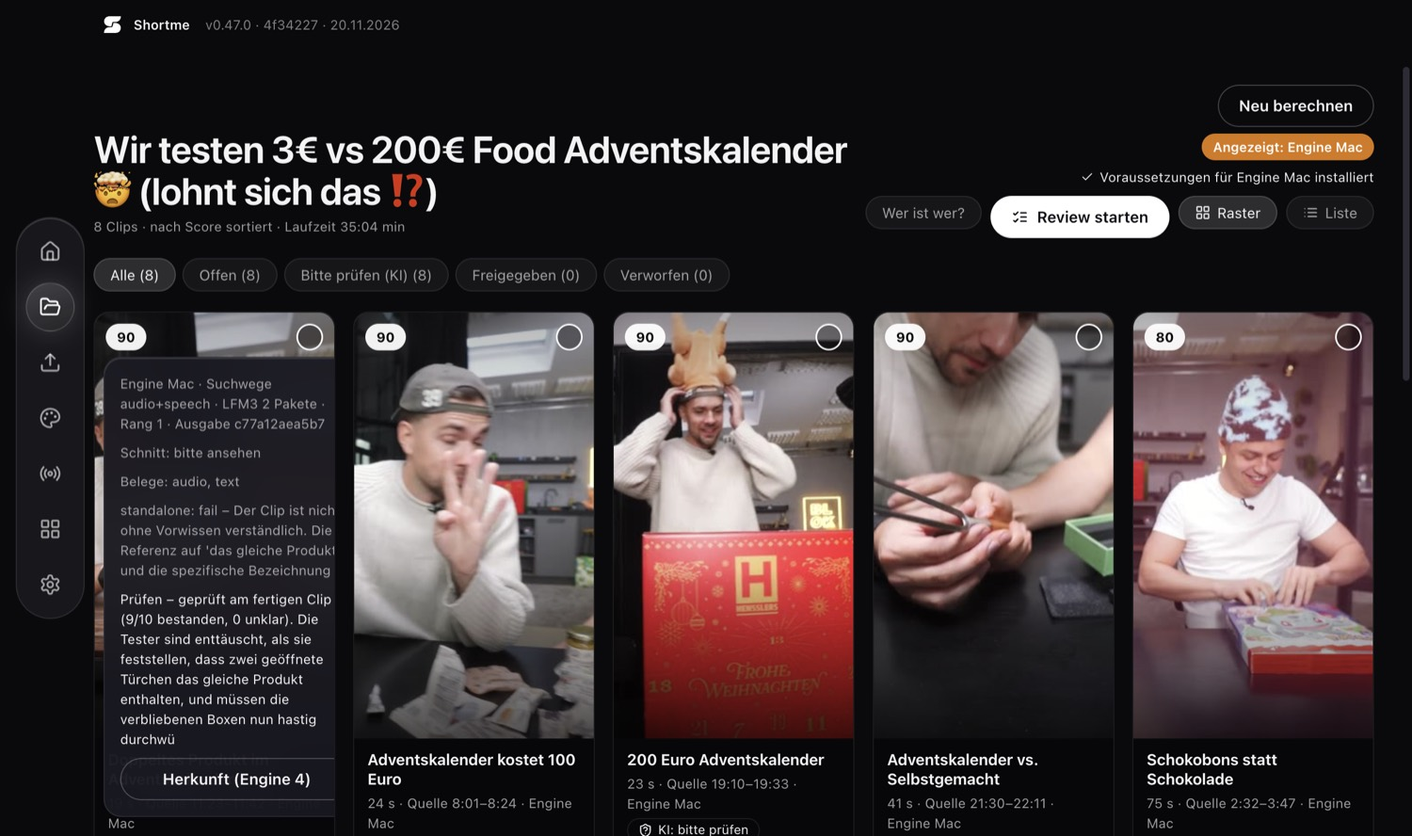
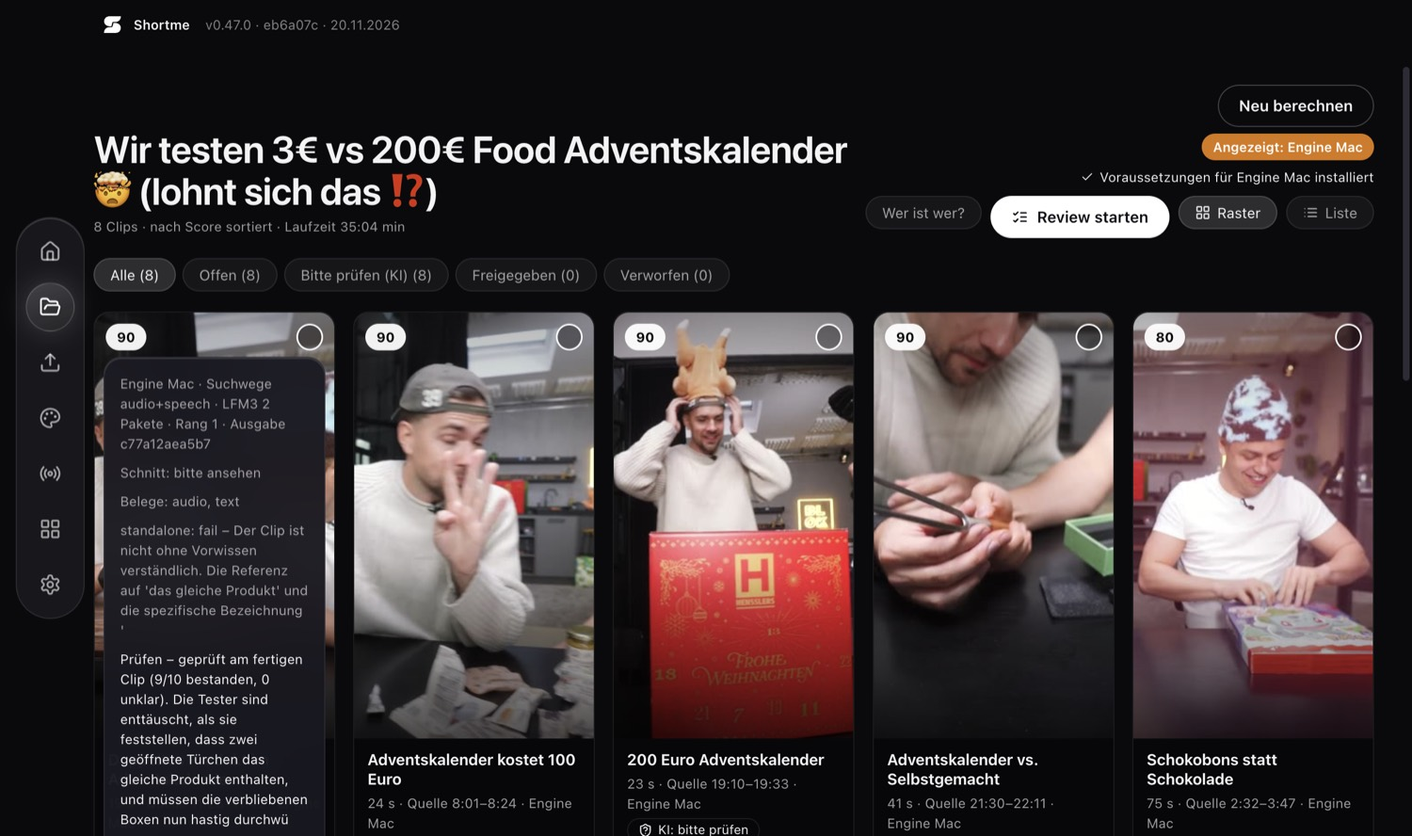
Version 0.48.0: Export mit Bestätigung, stimmige Restzeit, Status bei gestopptem Lauf, Score-Details, Zeitleiste; UI-Breakdown aktualisiert

diff --git a/docs/ui-research/shortme-ui-breakdown.html b/docs/ui-research/shortme-ui-breakdown.html
@@ -108,14 +108,14 @@ th { background: #f0f0f0; }
 <li><b>Wonach suchen?</b> Freitext, z. B. „lustige Momente“.</li>
 <li><b>Erweitert:</b> Sprache, Transkriptionsmodell, Sprecher unterscheiden.</li>
 </ul>
-<p>Unten stehen „Dauer etwa 25 Min“, „Abbrechen“ und „Clips finden“.</p>
+<p>Unten stehen „Dauer etwa 40 Min“ (aus gemessenen Werten dieses Rechners), „Abbrechen“ und „Clips finden“.</p>
 <figure><img src="img/Start-Erstellen-Dialog-unten.jpg"><figcaption>Erstellen-Dialog, unterer Teil (Untertitel-Stile, Cold Opener, Anzahl, Workflow).</figcaption></figure>
 
 <h2 class="pb">4. Verarbeitung</h2>
 <figure><img src="img/Verarbeitung.jpg"><figcaption>Verarbeitung: drei Phasen mit Status statt Prozentbalken, Detailzeile der Engine, „Transkript bereit“.</figcaption></figure>
 <ul>
 <li>Überschrift „Clips werden erstellt …“, eine Marke für die Engine, Videotitel und -länge.</li>
-<li>„Läuft seit X Min · Restzeit ca. A–B“: die Restzeit als Spanne.</li>
+<li>„Läuft seit X Min · Restzeit ca. 30–45 Min“: die Restzeit als Spanne. Während „Clips finden“ rechnet die Engine selbst aus der echten Restarbeit.</li>
 <li>Drei Phasen (Transkribieren, Analysieren, Clips finden), jeweils erledigt, läuft oder ausstehend. Bei Clips finden steht eine Detailzeile, z. B. „Sprachsuche (Qwen3.5), Fenster 2 von 11“ oder „Clip 3 von 8 rendern“.</li>
 <li>Zwischenstände als Chips: „Transkript bereit“ und vorläufige Clips, sobald sie vorliegen.</li>
 <li>Knöpfe: Pausieren, Beenden mit Ergebnissen, Verwerfen (mit Rückfrage), Fortsetzen.</li>
@@ -182,7 +182,7 @@ th { background: #f0f0f0; }
   <li>Freigabestatus („Offen“)</li>
   <li>Layout-Schnellwahl: Smart, Fest, Vollbild, Split</li>
   <li>Lernbewertung, „Gespeichert“, Rückgängig/Wiederholen (Strg+Z/Y)</li>
-  <li><b>Exportieren</b>: startet sofort und zeigt den Fortschritt im Knopf</li>
+  <li><b>Exportieren</b>: öffnet einen kurzen Dialog mit Prüfhinweisen und startet erst nach Bestätigung; der Fortschritt steht dann im Knopf</li>
   </ul>
 </li>
 <li><b>Links – Transkript:</b> Das aktuelle Wort ist hervorgehoben, außerhalb des Clips ist der Text grau. Es gibt „Text ändern“ (korrigiert den Untertitel) und „Herausschneiden“ (Wörter markieren, um Stellen aus dem Clip zu schneiden).</li>
@@ -214,11 +214,12 @@ th { background: #f0f0f0; }
   <li>Filmstreifen und Wellenform des Quellvideos; darauf der Clipbereich mit Griffen und Einstellungs-Segmenten (Layout je Kameraeinstellung)</li>
   </ul>
 </li>
-<li>Vor dem Export läuft eine Prüfung: fehlende Quelle, Einstellungen ohne Person (mit Sprung zur Stelle), Länge, fehlende Untertitel, verworfener Clip.</li>
+<li>Der Export-Dialog prüft: fehlende Quelle, Einstellungen ohne Person (mit Sprung zur Stelle), Länge, fehlende Untertitel, verworfener Clip, KI-Hinweise.</li>
 </ul>
 <figure><img src="img/Editor-Animation.jpg"><figcaption>Reiter Animation.</figcaption></figure>
 <figure><img src="img/Editor-Titel.jpg"><figcaption>Reiter Titel.</figcaption></figure>
-<figure><img src="img/Editor-Bildausschnitt.jpg"><figcaption>Reiter Bildausschnitt; oben läuft gerade ein Export (32 %).</figcaption></figure>
+<figure><img src="img/Editor-Bildausschnitt.jpg"><figcaption>Reiter Bildausschnitt.</figcaption></figure>
+<figure><img src="img/Editor-Export-Dialog.jpg"><figcaption>Export-Dialog mit Prüfhinweis.</figcaption></figure>
 
 <h2 class="pb">9. Exporte &amp; Upload</h2>
 <figure><img src="img/Exporte___Upload.jpg"><figcaption>Liste der exportierten Clips, Ziel TikTok, YouTube oder Instagram, Text und Beschreibung, Verbinden mit eigenen API-Schlüsseln, Entwürfe hochladen.</figcaption></figure>
@@ -271,15 +272,10 @@ th { background: #f0f0f0; }
 <figure><img src="img/Einstellungen-Konten___Dienste.jpg"><figcaption>Konten &amp; Dienste.</figcaption></figure>
 <figure><img src="img/Einstellungen-System.jpg"><figcaption>System.</figcaption></figure>
 
-<h2 class="pb">14. Bekannte Schwachstellen (Beobachtungen beim Erstellen dieses Dokuments)</h2>
+<h2 class="pb">14. Bekannte Schwachstellen</h2>
+<p class="sub">Schon behoben (nach der ersten Fassung dieses Dokuments): widersprüchliche Restzeiten, „läuft“ bei gestopptem Lauf, Export ohne Bestätigung, abgeschnittenes Score-Popup mit falscher Engine, veraltete Engine-Beschreibung, überlappende Beschriftungen in der Zeitleiste.</p>
 <ul>
 <li><b>Wartezeit:</b> Ein Lauf dauert 25–35 min, die ersten Clips sieht man erst am Ende.</li>
-<li class="issue"><b>Restzeiten widersprechen sich:</b> Der Erstellen-Dialog sagt „Dauer etwa 25 Min“, die Verarbeitung kurz danach „Restzeit ca. 45 Min–1 Std 15 Min“. Der tatsächliche letzte Lauf dauerte 35 min.</li>
-<li class="issue"><b>Gestoppter Lauf:</b> Bei „Clips finden“ steht „Gestoppt“, rechts aber weiter „läuft“.</li>
-<li class="issue"><b>Exportieren:</b> Der Knopf startet sofort ohne Dialog (Format, Ziel und Qualität kommen aus den Einstellungen). Ein versehentlicher Klick erzeugt direkt eine Datei.</li>
-<li class="issue"><b>Score-Popup:</b> Es wird am Kartenrand abgeschnitten und zeigt „Herkunft (Engine 4)“, obwohl der Clip von Engine Mac kommt.</li>
-<li class="issue"><b>Engine-Beschreibung im Erstellen-Dialog veraltet:</b> Dort steht „Gemma 4 sieht und hört jeden Kandidaten“. Heute arbeiten LFM3-Omni und Qwen3.5.</li>
-<li class="issue"><b>Zeitleiste:</b> Bei vielen kurzen Kameraeinstellungen überlappen die Segment-Beschriftungen („Vc S Smart Sn …“).</li>
 <li><b>KI-Prüfung bei Vlogs:</b> Fast jeder Clip ist „bitte prüfen“, weil die KI „nicht eigenständig verständlich“ oft anmerkt. Das schwächt die Marke als Signal.</li>
 <li><b>Viele Regler:</b> Untertitel (Schrift, Farben, Kontur, Schatten, Glow, Box, Animation) gibt es doppelt, in Vorlagen und im Editor.</li>
 <li><b>Mehrere Bewertungsebenen:</b> Score, KI-Prüfung, Freigabe und Lernbewertung stehen nebeneinander. Das ist mächtig, aber erklärungsbedürftig.</li>

diff --git a/src/renderer/src/shortme/EditorScreen.tsx b/src/renderer/src/shortme/EditorScreen.tsx
@@ -345,7 +345,7 @@ export function EditorScreen(): React.JSX.Element {
     const v = review[clipId]
     const issues = preflight({ hasSource: !!srcUrl && !srcBroken, plan, captions: true, words: words.filter((w) => w.t >= trim[0] - 0.01 && w.e <= trim[1] + 0.05 && !cut.includes(w.g)).length,
       quality: real ? qualityOf(real, !!v?.revision && v.revision !== clipRevision(real, null)) : undefined, review: v ? { status: v.status, changedSinceApproval: v.changedSinceApproval } : undefined })
-    if (needsConfirm(issues)) setPreIssues(issues); else void exportNow()
+    setPreIssues(issues) // immer bestätigen: ein Fehlklick erzeugte sonst sofort eine Datei
   }
   const applyAll = async (): Promise<void> => {
     const others = (allReal ?? []).map((c) => c.id).filter((id) => id !== clipId)
@@ -381,9 +381,11 @@ export function EditorScreen(): React.JSX.Element {
   return (
     <div style={{ display: 'grid', gridTemplateRows: 'auto minmax(0, 1fr) 262px', gap: 12, height: 'calc(100vh - 60px)', paddingTop: 4 }}>
       {preIssues && (
-        <div role="dialog" aria-label="Vor dem Export prüfen" onClick={() => setPreIssues(null)} style={{ position: 'fixed', inset: 0, zIndex: 90, background: 'rgba(0,0,0,0.55)', display: 'grid', placeItems: 'center', padding: 16 }}>
+        <div role="dialog" aria-label="Clip exportieren" onClick={() => setPreIssues(null)} style={{ position: 'fixed', inset: 0, zIndex: 90, background: 'rgba(0,0,0,0.55)', display: 'grid', placeItems: 'center', padding: 16 }}>
           <div className="sm-glass" onClick={(e) => e.stopPropagation()} style={{ width: 'min(520px, 100%)', padding: 20, display: 'grid', gap: 12, background: 'rgba(22,22,28,0.97)' }}>
-            <h3>Vor dem Export</h3>
+            <h3>Clip exportieren</h3>
+            {!preIssues.length && <small style={{ color: 'var(--text-1)' }}>Keine Auffälligkeiten gefunden.</small>}
+            <small style={{ color: 'var(--text-2)' }}>Format, Qualität und Zielordner kommen aus Einstellungen → Export.</small>
             {preIssues.map((x) => (
               <div key={x.id} style={{ display: 'grid', gridTemplateColumns: '78px 1fr auto', gap: 10, alignItems: 'center' }}>
                 <span className="sm-badge">{x.level === 'fehler' ? 'Fehler' : x.level === 'warnung' ? 'Warnung' : 'Hinweis'}</span>
@@ -393,7 +395,7 @@ export function EditorScreen(): React.JSX.Element {
             ))}
             <div style={{ display: 'flex', gap: 8, justifyContent: 'flex-end' }}>
               <Button variant="secondary" onClick={() => setPreIssues(null)}>Abbrechen</Button>
-              <Button variant="primary" disabled={blocks(preIssues)} onClick={() => void exportNow()}>Trotzdem exportieren</Button>
+              <Button variant="primary" disabled={blocks(preIssues)} autoFocus onClick={() => void exportNow()}>{needsConfirm(preIssues) ? 'Trotzdem exportieren' : 'Exportieren'}</Button>
             </div>
           </div>
         </div>
@@ -622,7 +624,7 @@ function Timeline({ duration, trim, t, onSeek, words, playing, onToggle, muted, 
         </div>
         {/* Shots */}
         <div style={{ position: 'relative', borderRadius: 6, background: 'rgba(255,255,255,0.04)' }}>
-          {shots.map((s, i) => <div key={i} title={`${LAYOUT_LABEL[s.layout]}${s.auto ? " (automatisch: keine Person im Ausschnitt → Vollbild)" : ""} · ${fmt(s.start)}–${fmt(s.end)}`} style={{ position: 'absolute', top: 2, bottom: 2, left: pct(s.start), width: `calc(${pct(s.end)} - ${pct(s.start)})`, background: LAYOUT_COLOR[s.layout], borderRadius: 4, fontSize: 10, lineHeight: '20px', paddingLeft: 4, overflow: 'hidden', whiteSpace: 'nowrap', color: '#fff', ...(s.auto ? { outline: '1px dashed var(--warn)' } : {}) }}>{LAYOUT_LABEL[s.layout]}{s.auto ? ' · auto' : ''}</div>)}
+          {shots.map((s, i) => <div key={i} title={`${LAYOUT_LABEL[s.layout]}${s.auto ? " (automatisch: keine Person im Ausschnitt → Vollbild)" : ""} · ${fmt(s.start)}–${fmt(s.end)}`} style={{ position: 'absolute', top: 2, bottom: 2, left: pct(s.start), width: `calc(${pct(s.end)} - ${pct(s.start)})`, background: LAYOUT_COLOR[s.layout], borderRadius: 4, fontSize: 10, lineHeight: '20px', paddingLeft: 4, overflow: 'hidden', whiteSpace: 'nowrap', color: '#fff', ...(s.auto ? { outline: '1px dashed var(--warn)' } : {}) }}>{(s.end - s.start) / duration >= 0.035 && <>{LAYOUT_LABEL[s.layout]}{s.auto ? ' · auto' : ''}</>}</div>)}{/* schmale Einstellungen ohne Text (sonst „Vc S Smart Sn …“), Name steht im Tooltip */}
         </div>
         {mark !== null && <div aria-hidden style={{ position: 'absolute', top: 0, bottom: 0, left: pct(Math.min(mark, t)), width: `calc(${pct(Math.max(mark, t))} - ${pct(Math.min(mark, t))})`, background: 'rgba(255,80,80,0.28)', border: '1px solid rgba(255,120,120,0.9)', borderRadius: 6, pointerEvents: 'none' }} />}
         {ranges.map((r, i) => <button key={`r${i}`} type="button" title={`Gelöscht ${fmt(r[0])}–${fmt(r[1])} · Klicken zum Wiederherstellen`} aria-label={`Gelöschten Bereich ${fmt(r[0])} bis ${fmt(r[1])} wiederherstellen`} onPointerDown={(e) => e.stopPropagation()} onClick={() => onRestoreRange(r)} style={{ position: 'absolute', top: 56, height: 22, left: pct(r[0]), width: `calc(${pct(r[1])} - ${pct(r[0])})`, minWidth: 14, zIndex: 2, border: '1px solid rgba(255,255,255,0.8)', borderRadius: 6, background: 'rgba(255,80,80,0.35)', color: '#fff', fontSize: 11, lineHeight: '18px', padding: 0, cursor: 'pointer', overflow: 'hidden' }}>↺</button>)}

diff --git a/src/renderer/src/shortme/ClipScreens.tsx b/src/renderer/src/shortme/ClipScreens.tsx
@@ -106,7 +106,7 @@ function ClipCard({ c, selected, onSelect, onOpen, pct, info }: { c: Clip; selec
   const [prov, setProv] = useState(false)
   return (
     <>
-    {prov && c.v4RunId && <V4ProvenancePanel runId={c.v4RunId} clipId={c.id} onClose={() => setProv(false)} />}
+    {prov && c.v4RunId && <V4ProvenancePanel runId={c.v4RunId} clipId={c.id} label={c.v4Label ?? 'Engine 4'} onClose={() => setProv(false)} />}
     <motion.div className="sm-card" style={{ position: 'relative', overflow: 'visible', contentVisibility: 'auto', containIntrinsicSize: '260px 520px', outline: selected ? '2px solid var(--accent)' : 'none', ...(c.pending ? { opacity: 0.45, pointerEvents: 'none', filter: 'grayscale(0.8)' } : {}) }} whileTap={reduced ? undefined : { scale: 0.97 }} transition={base} onHoverStart={() => { setHover(true); setHoveredClip(c.id) }} onHoverEnd={() => { setHover(false); setPop(false); setHoveredClip(null) }}>
       <div onClick={onOpen} style={{ aspectRatio: '9/16', borderRadius: 'var(--r-card) var(--r-card) 0 0', overflow: 'hidden', position: 'relative' }}>
         <div style={{ position: 'absolute', inset: 0, backgroundImage: `url(${c.thumb})`, backgroundSize: 'cover', transform: hover && !reduced ? 'scale(1.08)' : 'scale(1)', transition: 'transform 2.4s linear' }} />
@@ -125,7 +125,7 @@ function ClipCard({ c, selected, onSelect, onOpen, pct, info }: { c: Clip; selec
       </div>
       <AnimatePresence>
         {pop && (
-          <motion.div initial={{ opacity: 0, scale: 0.92, filter: 'blur(6px)' }} animate={{ opacity: 1, scale: 1, filter: 'blur(0px)' }} exit={{ opacity: 0, scale: 0.92 }} transition={base} className="sm-glass" style={{ position: 'absolute', top: 40, left: 8, zIndex: 20, width: 240, padding: 14, transformOrigin: 'top left', background: 'rgba(24,24,32,0.95)', borderRadius: 16, display: 'grid', gap: 8 }}>
+          <motion.div initial={{ opacity: 0, scale: 0.92, filter: 'blur(6px)' }} animate={{ opacity: 1, scale: 1, filter: 'blur(0px)' }} exit={{ opacity: 0, scale: 0.92 }} transition={base} className="sm-glass" style={{ position: 'absolute', top: 40, left: 8, right: 8, bottom: 8, overflowY: 'auto', overflowWrap: 'anywhere', gridTemplateColumns: 'minmax(0, 1fr)', zIndex: 20, padding: 14, alignContent: 'start', transformOrigin: 'top left', background: 'rgba(24,24,32,0.95)', borderRadius: 16, display: 'grid', gap: 8 }}>
             {c.criteria.map((k) => (
               <div key={k.label} style={{ display: 'grid', gridTemplateColumns: '1fr 28px', gap: 8, alignItems: 'center', fontSize: 12 }}>
                 <div style={{ display: 'grid', gap: 3 }}>{k.label}<div className="sm-bar" style={{ height: 4 }}><i style={{ width: `${(k.value / 20) * 100}%` }} /></div></div>
@@ -134,7 +134,7 @@ function ClipCard({ c, selected, onSelect, onOpen, pct, info }: { c: Clip; selec
             ))}
             {c.notes?.map((n, i) => <small key={i} style={{ color: 'var(--text-2)' }}>{n}</small>)}
             <small style={{ color: 'var(--text-1)' }}>{c.reason}</small>
-            {c.v4RunId && <Button variant="secondary" onClick={(e) => { e.stopPropagation(); setProv(true); setPop(false) }}>Herkunft (Engine 4)</Button>}
+            {c.v4RunId && <Button variant="secondary" onClick={(e) => { e.stopPropagation(); setProv(true); setPop(false) }}>Herkunft ({c.v4Label ?? 'Engine 4'})</Button>}
           </motion.div>
         )}
       </AnimatePresence>
@@ -302,7 +302,7 @@ function RealProcessing(): React.JSX.Element {
               {done ? <Check size={18} aria-label="erledigt" /> : active && busy ? <Loader2 size={18} className="sm-spin" aria-label="läuft" /> : <span aria-label="ausstehend" style={{ width: 10, height: 10, borderRadius: 5, border: '1.5px solid var(--text-3)', justifySelf: 'center' }} />}
               <span>{label}</span>
               {step ? <div className="sm-bar" title="gemessener Teilschritt"><i style={{ width: `${(step.done / step.total) * 100}%` }} /></div> : <small style={{ color: 'var(--text-2)', overflow: 'hidden', textOverflow: 'ellipsis', whiteSpace: 'nowrap' }}>{active ? message.replace(/\s*…$/, '') : ''}</small>}
-              <small style={{ textAlign: 'right', fontVariantNumeric: 'tabular-nums' }}>{done ? 'erledigt' : step ? `${step.done} von ${step.total}` : active ? 'läuft' : 'ausstehend'}</small>
+              <small style={{ textAlign: 'right', fontVariantNumeric: 'tabular-nums' }}>{done ? 'erledigt' : step ? `${step.done} von ${step.total}` : active ? (busy ? 'läuft' : job.state === 'paused' ? 'pausiert' : job.state === 'error' ? 'Fehler' : 'gestoppt') : 'ausstehend'}</small>
             </div>
           )
         })}

diff --git a/src/renderer/src/shortme/V4Provenance.tsx b/src/renderer/src/shortme/V4Provenance.tsx
@@ -20,7 +20,7 @@ const mmss = (s: number): string => `${Math.floor(s / 60)}:${String(Math.floor(s
 const COLOR: Record<string, string> = { pass: 'var(--ok)', fail: 'var(--warn)', unknown: 'var(--text-2)', 'not-applicable': 'var(--text-3)' }
 
 /** Engine 4: Herkunft eines Clips aus den Lauf-Dateien – warum gefunden, Untersuchung, Graph, Kanten, Varianten, Prüfrunden am gerenderten Clip, Reparaturen. */
-export function V4ProvenancePanel({ runId, clipId, onClose }: { runId: string; clipId: string; onClose: () => void }): React.JSX.Element {
+export function V4ProvenancePanel({ runId, clipId, label = 'Engine 4', onClose }: { runId: string; clipId: string; label?: string; onClose: () => void }): React.JSX.Element {
   const hash = useProject((s) => s.clipsFile?.hash ?? null)
   const [p, setP] = useState<P | null>(null)
   const [err, setErr] = useState('')
@@ -29,7 +29,7 @@ export function V4ProvenancePanel({ runId, clipId, onClose }: { runId: string; c
   return (
     <div role="dialog" aria-label="Herkunft des Clips" onClick={onClose} style={{ position: 'fixed', inset: 0, zIndex: 200, background: 'rgba(0,0,0,0.55)', display: 'grid', placeItems: 'center', padding: 16 }}>
       <div className="sm-glass" onClick={(e) => e.stopPropagation()} style={{ width: 'min(920px, 100%)', maxHeight: '88vh', overflow: 'auto', padding: 18, display: 'grid', gap: 12, background: 'rgba(20,20,26,0.97)' }}>
-        <div style={{ display: 'flex', justifyContent: 'space-between', alignItems: 'center' }}><h2 style={{ margin: 0 }}>Herkunft · Engine 4</h2><Button variant="secondary" onClick={onClose} aria-label="Schließen"><X size={14} /></Button></div>
+        <div style={{ display: 'flex', justifyContent: 'space-between', alignItems: 'center' }}><h2 style={{ margin: 0 }}>Herkunft · {label}</h2><Button variant="secondary" onClick={onClose} aria-label="Schließen"><X size={14} /></Button></div>
         {err && <small role="alert" style={{ color: 'var(--warn)' }}>{err}</small>}
         {!p && !err && <small>Lädt …</small>}
         {p && (

diff --git a/src/shared/estimate.ts b/src/shared/estimate.ts
@@ -59,9 +59,10 @@ export function estimateStages(durationSec: number, wanted?: number, scale = 1, 
   }
   if (engine === 'engine-mac') {
     // Gemessen M1 Pro 16 GB (Nov. 2026): 26-min-Video in ~1 min transkribiert; Kamerawechsel laufen parallel zur Engine (keine eigene Wartezeit);
-    // Engine Mac: Sprachsuche ~27 s je 150 s Video, Ansehen ~25 s je Kandidat (Wunsch + 4), Plan ~18 s je Kandidat, Render+Prüfung ~45 s je Clip, Modellwechsel ~60 s
+    // Engine Mac (mac2-throughput.json, 26-min-Video ≈ 35 min): Sprachsuche 35 s je Fenster (≈ 0,25 × Dauer), Bildsuche ≈ 0,18 × Dauer (entfällt, wenn gespeichert),
+    // Ansehen 2 Pakete × 12 s je Kandidat (Wunsch + 4), Plan 25 s je Kandidat + Rangfolge ~60 s, Prüfung 2 Pakete × 18 s + Urteil 27 s je Clip; Rendern läuft parallel
     s.audio = 3 + 0.002 * dur; s.asr = 10 + 0.04 * dur; s.gaps = 0.002 * dur; s.finalize = 3; s.signals = 5; s.shots = 0
-    s.topics = 0; s.candidates = 0.18 * dur + 30; s.rate = (n + 4) * 25; s.snap = (n + 4) * 18 + 25; s.compare = n * 45 + 60; s.proofread = 0; s.layout = 10 + 3 * n
+    s.topics = 0; s.candidates = 0.25 * dur + 0.18 * dur + 30; s.rate = (n + 4) * 24; s.snap = (n + 4) * 25 + 60; s.compare = n * 63 + 60; s.proofread = 0; s.layout = 10 + 3 * n
   }
   for (const k of STAGES) s[k] *= scale
   return s
@@ -127,7 +128,8 @@ export function etaRange(sec: number): string {
   // untere Grenze unter 1 Min → nur die obere nennen (sonst „unter 1–1 Min“)
   if (sec * 0.8 < 60) return `unter ${fmtEta(Math.max(60, sec * 1.3))}`
   const lo = fmtEta(sec * 0.8), hi = fmtEta(sec * 1.3)
-  return lo === hi ? `ca. ${lo}` : `ca. ${lo.replace(/ Min$/, '')}–${hi}`
+  // „45–1 Std 15 Min“ liest sich wie 45 Std → über die Stundengrenze beide Werte ausschreiben
+  return lo === hi ? `ca. ${lo}` : hi.includes('Std') && !lo.includes('Std') ? `ca. ${lo} – ${hi}` : `ca. ${lo.replace(/ Min$/, '')}–${hi}`
 }
 
 /** Dauer in Worten für „vergangen“: 45 s, 12 Min, 1 Std 05 Min. */

diff --git a/src/main/shortme/clips/engines/mac2/index.ts b/src/main/shortme/clips/engines/mac2/index.ts
@@ -46,6 +46,7 @@ import { coldOpenFromObs, coverageOf, obsText, observePacket, packetsFor, type P
 import { judgeRender, planCandidate, planPrompt, rankPlans, type ClipPlan } from './director'
 import { candidateLimits, decideExtraInvestigation, mayRequestInspection } from './runtimePolicy'
 import { etaText, Ledger } from './ledger'
+import { indexCached } from '../v3/embedIndex'
 import { mac2MissingModels } from './models'
 import { ensureProxy, needsProxy } from './proxy'
 import { MAC2_MODELS, MAC2_PIPELINE_VERSION, mac2Revisions } from './revisions'
@@ -142,7 +143,7 @@ export async function selectMac2(req: SelectionRequest): Promise<SelectionOutcom
     const sentences = splitSentences(t.words)
     if (req.input.events?.length && sentences.length) for (const [i, m] of marksBySentence(sentences, req.input.events)) sentences[i].ev = m
     // ganze Restarbeit von Anfang an in der Warteschlange (Schätzmengen, später durch die echten Mengen ersetzt) – keine Phase zählt als 0 s
-    const speechWins = textWindows(sentences).length, embedWins = Math.ceil(dur / P.embed.hopSec)
+    const speechWins = textWindows(sentences).length, embedWins = indexCached(project.hash, dur, P.embed) ? 0 : Math.ceil(dur / P.embed.hopSec) // gespeicherte Bildsuche kostet keine Zeit (und verfälscht sonst das gemerkte Tempo)
     L.plan('model-load', 6); L.set('speech-window', speechWins); L.set('embed-window', embedWins)
     L.set('observe-packet', (wanted + 4) * 2); L.set('plan', wanted + 4); L.set('rank', 1); L.set('render', wanted * 40); L.set('audit-packet', wanted * 2); L.set('audit-judge', wanted)
     const speech: LaneResult = await phase('lane-speech', () => withQwen(async (s) => {

diff --git a/src/shared/engine.ts b/src/shared/engine.ts
@@ -13,7 +13,7 @@ export const ENGINE_BLURB: Record<SelectionEngineId, string> = {
   'multimodal-v2': 'Prüft Bild und Ton mit lokalen Modellen (Qwen3-VL, Voxtral) und vergleicht fertig geschnittene Varianten.',
   'adaptive-v3': 'Durchsucht das ganze Video semantisch (Bild-Embeddings), dazu Ton und Text, und prüft die Treffer wie Engine 2.',
   engine4: 'Eigene Pipeline: vier unabhängige Suchwege, Nachuntersuchung mit Bild+Ton, Schnitte nur an gemessenen Kanten, prüft den fertig gerenderten Clip und repariert ihn gezielt.',
-  'engine-mac': 'Wie Engine 4, gebaut für Apple Silicon: Apple-Tonanalyse (Lachen, Jubel), Bildsuche auf der Mac-GPU, Gemma 4 sieht und hört jeden Kandidaten; Modelle laufen nacheinander, damit 16 GB reichen.'
+  'engine-mac': 'Für Apple Silicon: Qwen3.5 durchsucht das Transkript und plant Schnitte an Satzgrenzen, LFM3-Omni sieht und hört jeden Kandidaten, dazu Apple-Tonanalyse (Lachen, Jubel) und Bildsuche; jeder fertige Clip wird noch einmal geprüft.'
 }
 /** Engine 4: Manifest (Spezifikation 03). Pipeline-Version 4.0, eigener Dispatcher. */
 export const V4_ENGINE_VERSION = '4.0'

diff --git a/src/main/shortme/clips/engines/mac2/ledger.ts b/src/main/shortme/clips/engines/mac2/ledger.ts
@@ -54,7 +54,11 @@ export class Ledger {
   /** Restzeit aus der Warteschlange; null = „Zeit wird ermittelt“ (eine Art ohne Messung hat offene Arbeit). */
   remainingSeconds(extra: RemainingWork[] = []): number | null {
     const work: RemainingWork[] = [...this.queued.entries()].filter(([, u]) => u > 0).map(([k, u]) => ({ units: Math.ceil(u), measuredSecondsPerUnit: this.secondsPerUnit(k) }))
-    return estimateRemainingSeconds([...work, ...extra])
+    const all = estimateRemainingSeconds([...work, ...extra])
+    if (all === null) return null
+    // Rendern läuft parallel zu Planung und Prüfung (Vorab-Render-Warteschlange) → nur der Teil zählt, der darüber hinausgeht
+    const sec = (k: TaskKind): number => (this.queued.get(k) ?? 0) * (this.secondsPerUnit(k) ?? 0)
+    return all - Math.min(sec('render'), sec('plan') + sec('rank') + sec('audit-packet') + sec('audit-judge'))
   }
 
   elapsedMs(): number { return Date.now() - this.t0 }

diff --git a/src/main/shortme/clips/engines/v3/embedIndex.ts b/src/main/shortme/clips/engines/v3/embedIndex.ts
@@ -35,6 +35,9 @@ async function pool<T>(items: T[], n: number, fn: (x: T) => Promise<void>, signa
   await Promise.all(Array.from({ length: Math.min(n, items.length) }, async () => { for (;;) { signal?.throwIfAborted(); const i = next++; if (i >= items.length) return; await fn(items[i]) } }))
 }
 
+/** Liegt der Index für diese Einstellungen schon vor? (nur für die Restzeit – buildIndex prüft die Teile selbst) */
+export const indexCached = (hash: string, durationSec: number, cfg: V3ProfileConfig): boolean => existsSync(join(indexDir(hash, indexFingerprint(hash, durationSec, cfg)), 'meta.json'))
+
 /**
  * Index laden oder aufbauen. Ein Teil (64 Fenster) wird erst nach erfolgreichem Embedding als Datei abgelegt; nach Abbruch/Absturz geht die Arbeit ab dem
  * ersten fehlenden Teil weiter. Fehlgeschlagene Teile werden als Lücke protokolliert (nicht als „nichts passiert“).

diff --git a/tests/mac2Engine.test.ts b/tests/mac2Engine.test.ts
@@ -88,6 +88,14 @@ describe('Engine Mac 2 – Laufzeitregeln im Ablauf', () => {
     await expect(L.run('plan', 'x', {}, async () => { throw new Error('kaputt') })).rejects.toThrow('kaputt')
     expect(L.summary().plan).toMatchObject({ calls: 1, failed: 1 })
   })
+  it('Restzeit: Rendern läuft parallel zur Planung und zählt nur, soweit es länger dauert', () => {
+    const L = new Ledger({ plan: 20, render: 2 })
+    L.set('plan', 5) // 100 s
+    L.set('render', 30) // 60 s, versteckt sich hinter der Planung
+    expect(L.remainingSeconds()).toBe(100)
+    L.set('render', 80) // 160 s → 60 s über die Planung hinaus
+    expect(L.remainingSeconds()).toBe(160)
+  })
 })
 
 describe('Engine Mac 2 – Bildsuch-Anfragen', () => {

diff --git a/tests/progressHonest.test.ts b/tests/progressHonest.test.ts
@@ -15,6 +15,7 @@ describe('Ehrlicher Fortschritt', () => {
     expect(etaRange(Number.NaN)).toBe('Wird ermittelt')
     expect(etaRange(30)).toBe('unter 1 Min')
     expect(etaRange(20 * 60)).toBe('ca. 16–25 Min')
+    expect(etaRange(57 * 60)).toBe('ca. 45 Min – 1 Std 15 Min') // über die Stundengrenze nicht „45–1 Std“
     expect(etaRange(5 * 60)).toBe('ca. 4–7 Min')
     expect(etaRange(70)).toBe('unter 2 Min')
   })

diff --git a/CHANGELOG.md b/CHANGELOG.md
@@ -6,6 +6,20 @@ the [releases page](https://github.com/JeremySNR/cutawan/releases).
 This project uses [semantic versioning](https://semver.org/), loosely: while
 still pre-1.0, minor bumps carry new features and patch bumps carry fixes.
 
+## [0.48.0] - 2026-11-20
+
+### Changed
+
+- Exportieren im Editor öffnet immer einen kurzen Bestätigungsdialog mit den Prüfhinweisen (vorher startete ein Klick sofort den Export).
+- Restzeit: Startschätzung und Restzeit während der Verarbeitung passen zusammen (Engine Mac zählt das parallele Rendern nicht doppelt und eine gespeicherte Bildsuche nicht mit); über die Stundengrenze steht „ca. 45 Min – 1 Std 15 Min“.
+- Engine Mac: aktuelle Beschreibung im Erstellen-Dialog.
+
+### Fixed
+
+- Ein gestoppter oder pausierter Lauf zeigte bei „Clips finden“ weiter „läuft“.
+- Score-Details auf der Clipkarte wurden abgeschnitten und nannten bei Engine-Mac-Clips „Engine 4“.
+- Zeitleiste im Editor: überlappende Beschriftungen bei vielen kurzen Kameraeinstellungen.
+
 ## [0.47.0] - 2026-11-20
 
 ### Added
